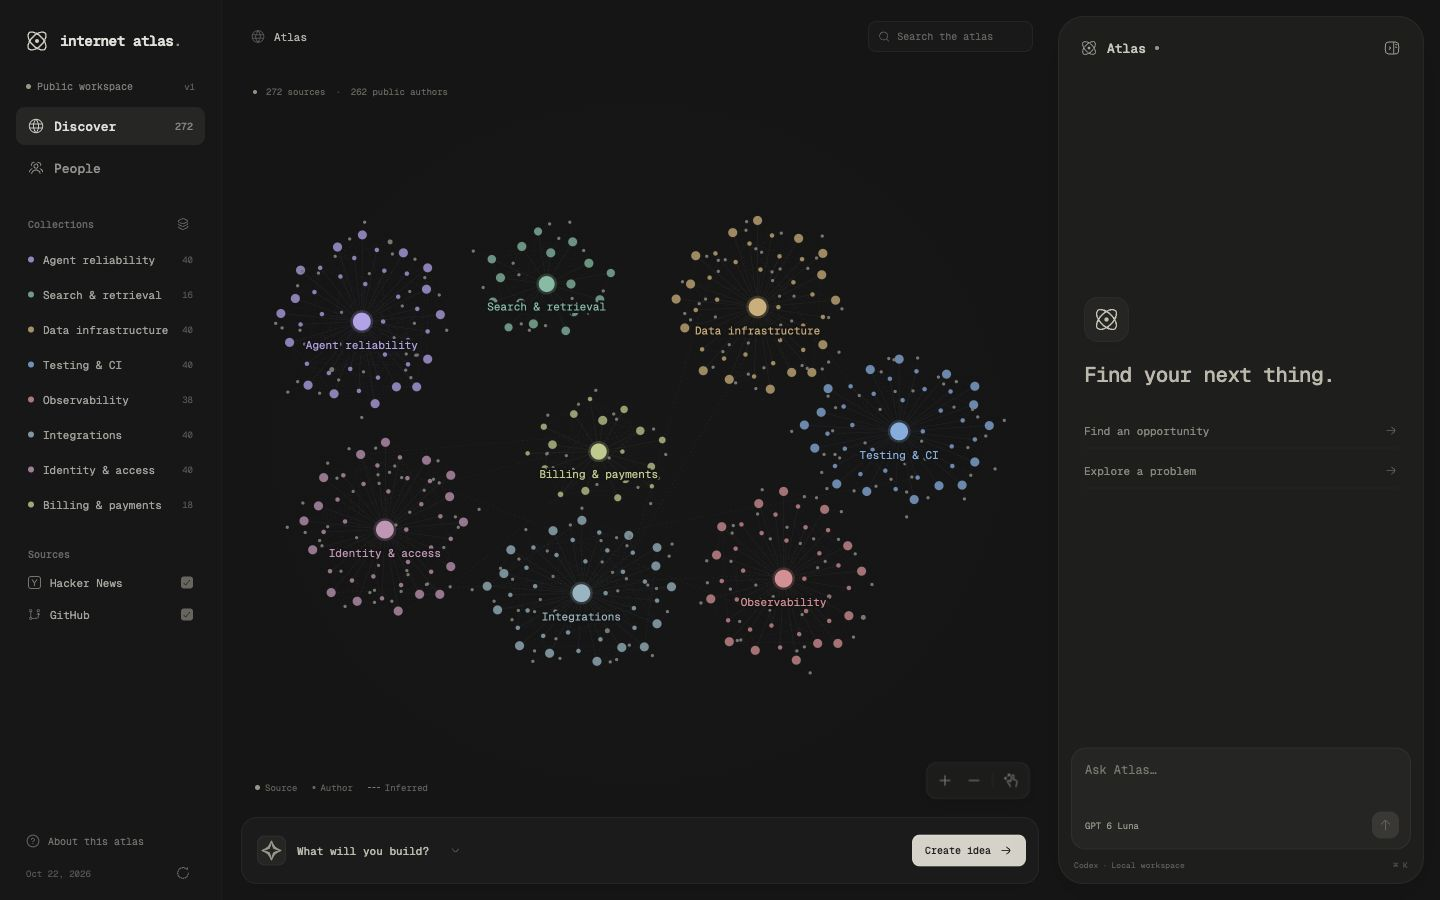
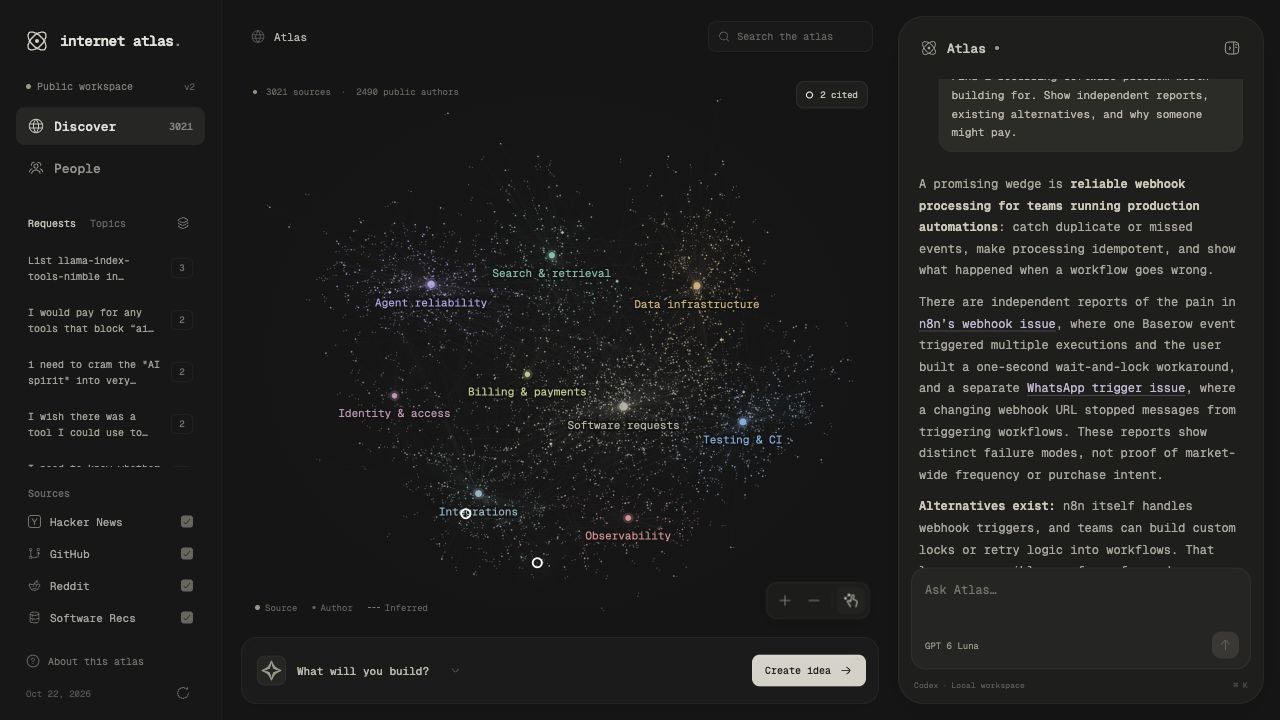
Keep focused evidence visible beside graph inspectors

diff --git a/src/App.tsx b/src/App.tsx
@@ -70,7 +70,7 @@ export function App() {
     } catch (error) { setBusy(false); handleError(error); }
   };
   const select = (id: string | null) => { setSelected(id); setLeadTab('evidence'); };
-  const openSource = (id: string) => { setSelected(id); graph.current?.focus([id]); };
+  const openSource = (id: string) => { setSelected(id); requestAnimationFrame(() => graph.current?.focus([id])); };
   const openIdea = () => { setIdeaTitle(state?.idea?.title || ''); setIdeaDescription(state?.idea?.description || ''); setIdeaSourceIds([...new Set([...(state?.idea?.sourceIds || []), ...(state?.pinned || [])])]); setIdeaOpen(true); };
   const findPeople = async () => { setSaving(true); try { await api('leads', {}); setView('people'); setTopicId(null); setSelected(null); setQuery(''); } catch (e) { handleError(e); } finally { setSaving(false); } };
   const saveIdea = async (find: boolean) => {
@@ -109,13 +109,13 @@ export function App() {
       </nav>
       {view === 'discover' ? <>
         <div className="collection-tabs"><button className={collectionMode === 'requests' ? 'current' : ''} onClick={() => setCollectionMode('requests')}>Requests</button><button className={collectionMode === 'topics' ? 'current' : ''} onClick={() => setCollectionMode('topics')}>Topics</button><IconButton label="Show all topics" onClick={() => { setTopicId(null); setSelected(null); graph.current?.fit(); }}><Layers2 size={13}/></IconButton></div>
-        {collectionMode === 'requests' ? <div className="request-list">{visibleSignals.map(signal => <button key={signal.id} className={selected === signal.id ? 'current' : ''} onClick={() => { setSelected(signal.id); setLeadTab('evidence'); graph.current?.focus(signal.sourceIds); }} title={`${signal.requesterCount} distinct accounts in 365 days, across all indexed sources`}><span>{signal.label}</span><small className={`request-count ${signal.tier.id}`}>{signal.requesterCount}</small></button>)}{!visibleSignals.length && <p className="empty-copy">No matching requests.</p>}</div> : <div className="topic-list">{corpus.topics.map(t => <button key={t.id} className={topicId === t.id ? 'current' : ''} onClick={() => { const next = topicId === t.id ? null : t.id; setTopicId(next); setSelected(next); if (next) setTimeout(() => graph.current?.fit(), 100); else graph.current?.fit(); }}><i style={{ background: t.color }}/><span>{t.name}</span><small>{corpus.records.filter(r => r.topicId === t.id).length}</small></button>)}</div>}
+        {collectionMode === 'requests' ? <div className="request-list">{visibleSignals.map(signal => <button key={signal.id} className={selected === signal.id ? 'current' : ''} onClick={() => { setSelected(signal.id); setLeadTab('evidence'); requestAnimationFrame(() => graph.current?.focus(signal.sourceIds)); }} title={`${signal.requesterCount} distinct accounts in 365 days, across all indexed sources`}><span>{signal.label}</span><small className={`request-count ${signal.tier.id}`}>{signal.requesterCount}</small></button>)}{!visibleSignals.length && <p className="empty-copy">No matching requests.</p>}</div> : <div className="topic-list">{corpus.topics.map(t => <button key={t.id} className={topicId === t.id ? 'current' : ''} onClick={() => { const next = topicId === t.id ? null : t.id; setTopicId(next); setSelected(next); if (next) setTimeout(() => graph.current?.fit(), 100); else graph.current?.fit(); }}><i style={{ background: t.color }}/><span>{t.name}</span><small>{corpus.records.filter(r => r.topicId === t.id).length}</small></button>)}</div>}
         <div className="section-label sources-label">Sources</div>
         <div className="source-filters">{availablePlatforms.map(s => <button key={s} className={sourceFilters.includes(s) ? 'enabled' : ''} onClick={() => setSourceFilters(old => old.includes(s) ? old.filter(x => x !== s) : [...old, s])}><SourceIcon source={s}/><span>{sourceName(s)}</span><span className="checkbox">{sourceFilters.includes(s) && <Check size={10}/>}</span></button>)}</div>
         {state.pinned.length > 0 && <button className="pinned-row" onClick={openIdea}><Pin size={13}/>{state.pinned.length} pinned<ChevronRight size={13}/></button>}
       </> : <>
         <div className="section-label">People<span>{leads.length}</span></div>
-        <div className="people-list">{leads.filter(l => l.name.toLowerCase().includes(query.toLowerCase())).map(l => <button key={l.id} aria-label={l.name} className={selected === l.id ? 'current' : ''} onClick={() => { select(l.id); graph.current?.focus([l.id]); }}><span className="person-avatar" style={{ color: corpus.topics.find(t => t.id === l.topicId)?.color }}>{l.name.slice(0, 1).toUpperCase()}</span><span>{l.name}<small>{l.kind || sourceName(l.source)}</small></span>{state.drafts[`${l.id}:dm`] || state.drafts[`${l.id}:email`] ? <span className="tiny-dot"/> : null}</button>)}</div>
+        <div className="people-list">{leads.filter(l => l.name.toLowerCase().includes(query.toLowerCase())).map(l => <button key={l.id} aria-label={l.name} className={selected === l.id ? 'current' : ''} onClick={() => { select(l.id); requestAnimationFrame(() => graph.current?.focus([l.id])); }}><span className="person-avatar" style={{ color: corpus.topics.find(t => t.id === l.topicId)?.color }}>{l.name.slice(0, 1).toUpperCase()}</span><span>{l.name}<small>{l.kind || sourceName(l.source)}</small></span>{state.drafts[`${l.id}:dm`] || state.drafts[`${l.id}:email`] ? <span className="tiny-dot"/> : null}</button>)}</div>
         {idea && !leads.length && <button className="secondary sidebar-action" onClick={findPeople}>Find people<ArrowRight size={14}/></button>}
       </>}
       <div className="sidebar-bottom"><button onClick={() => setHelpOpen(true)}><CircleHelp size={14}/> About this atlas</button><div className="refresh-row"><span>{niceDate(corpus.fetchedAt)}</span><IconButton label="Refresh public sources" disabled={refreshing} onClick={() => api('refresh', {}).catch(handleError)}><RefreshCw size={13} className={refreshing ? 'spin' : ''}/></IconButton></div></div>

diff --git a/src/Graph.tsx b/src/Graph.tsx
@@ -29,7 +29,21 @@ export const AtlasGraph = forwardRef<GraphHandle, Props>(function AtlasGraph({ s
   useImperativeHandle(ref, () => ({
     fit: () => network.current?.fit({ animation: reduced() ? false : { duration: 350, easingFunction: 'easeInOutQuad' } }),
     zoom: direction => { const n = network.current; if (n) n.moveTo({ scale: Math.max(.15, Math.min(3, n.getScale() * (direction > 0 ? 1.25 : .8))), animation: reduced() ? false : { duration: 180, easingFunction: 'easeInOutQuad' } }); },
-    focus: ids => { const n = network.current; if (!n || !ids.length) return; const found = ids.filter(id => nodeData.current.get(id)); if (!found.length) return; n.selectNodes(found); if (found.length === 1) n.focus(found[0], { scale: 1.05, animation: reduced() ? false : { duration: 400, easingFunction: 'easeInOutQuad' } }); else n.fit({ nodes: found, animation: reduced() ? false : { duration: 400, easingFunction: 'easeInOutQuad' } }); },
+    focus: ids => {
+      const n = network.current; if (!n || !ids.length) return;
+      const found = ids.filter(id => nodeData.current.get(id)); if (!found.length) return;
+      const inspector = element.current?.parentElement?.querySelector('.inspector');
+      const width = element.current?.clientWidth || 1;
+      const panelWidth = inspector?.getBoundingClientRect().width || 0;
+      const offset = { x: panelWidth ? Math.min(panelWidth / 2 + 12, width * .34) : 0, y: 0 };
+      const animation = reduced() ? false : { duration: 400, easingFunction: 'easeInOutQuad' as const };
+      n.selectNodes(found);
+      if (found.length === 1) n.focus(found[0], { scale: 1.05, offset, animation });
+      else {
+        n.fit({ nodes: found, animation: false });
+        n.moveTo({ position: n.getViewPosition(), scale: n.getScale() * Math.max(.3, (width - panelWidth - 40) / width), offset, animation });
+      }
+    },
   }));
   useEffect(() => {
     if (!element.current) return;

diff --git a/docs/verification.md b/docs/verification.md
@@ -9,7 +9,7 @@ Checked locally on October 22, 2026. The running production app is http://localh
 - A targeted live webhook collection returned 180 HN comments and 95 Reddit records before deduplication. No paid data API was called. MiniLM embeddings run locally with the model revision pinned to `751bff37182d3f1213fa05d7196b954e230abad9`.
 - An isolated live GPT 6 Luna turn called `atlas_signals`, `atlas_get_signal` and `atlas_focus`. It correctly reported one recent requester, the Early tier, and the original SigNoz issue URL. The tool upgrade preserved prior conversation context.
 - The user's existing two-message conversation remained unchanged through the production restart. Both original webhook citations resolve to indexed graph sources. No user state was cleared.
-- An intermediate desktop build visibly rendered the two cited sources with white outlines. The final looser layout and request inspector still need a visual check: local browser automation reports that it is disabled in Work settings, including after the user enabled it and the connection was refreshed. The previous screenshot in README is labeled as the original v1 layout.
+- **VERIFIED** in the built-in browser at 1280 × 720: the loose graph renders, both original citations have white outlines, and citation selection opens the original evidence with its node visible beside the inspector. A focus bug that hid selected nodes behind the inspector was reproduced, fixed and checked against the same source and viewport. The request inspector shows three authored requests, the Early tier and the 10/20/50 thresholds. Use in idea carries all three original sources into the editor. The modal was closed without saving. Browser console errors: none. Artifacts: [overview](atlas.png), [citation focus](atlas-citation.png), [request inspector](atlas-requests.png).
 - Production HTML, JavaScript and CSS were fetched from localhost and matched against the built files. [verification.json](verification.json) records the source boundary, its combined SHA-256 digest, individual input hashes and served artifact hashes. It includes source and generated data, dependency lockfile and build configuration.
 
 Known limits: request detection uses explicit-ask rules, grouping is inferred, and this sample has limited recurring demand. X and LinkedIn are supported through traceable dataset imports, with no X or LinkedIn dump ingested. Reddit RSS currently works but is scheduled to end November 13, 2026. Cross-platform accounts are not verified unique people. No outreach was sent.

diff --git a/README.md b/README.md
@@ -4,9 +4,7 @@ Find explicit software requests in public discussion, inspect their evidence, sh
 
 Two linked graphs share one Codex agent. The app runs on your computer at **http://localhost:3000**.
 
-![Original v1 interface](docs/atlas.png)
-
-The screenshot shows the original v1 layout. The current graph uses looser neighborhoods and request groups.
+![Internet Atlas desktop view](docs/atlas.png)
 
 ## Run
 
